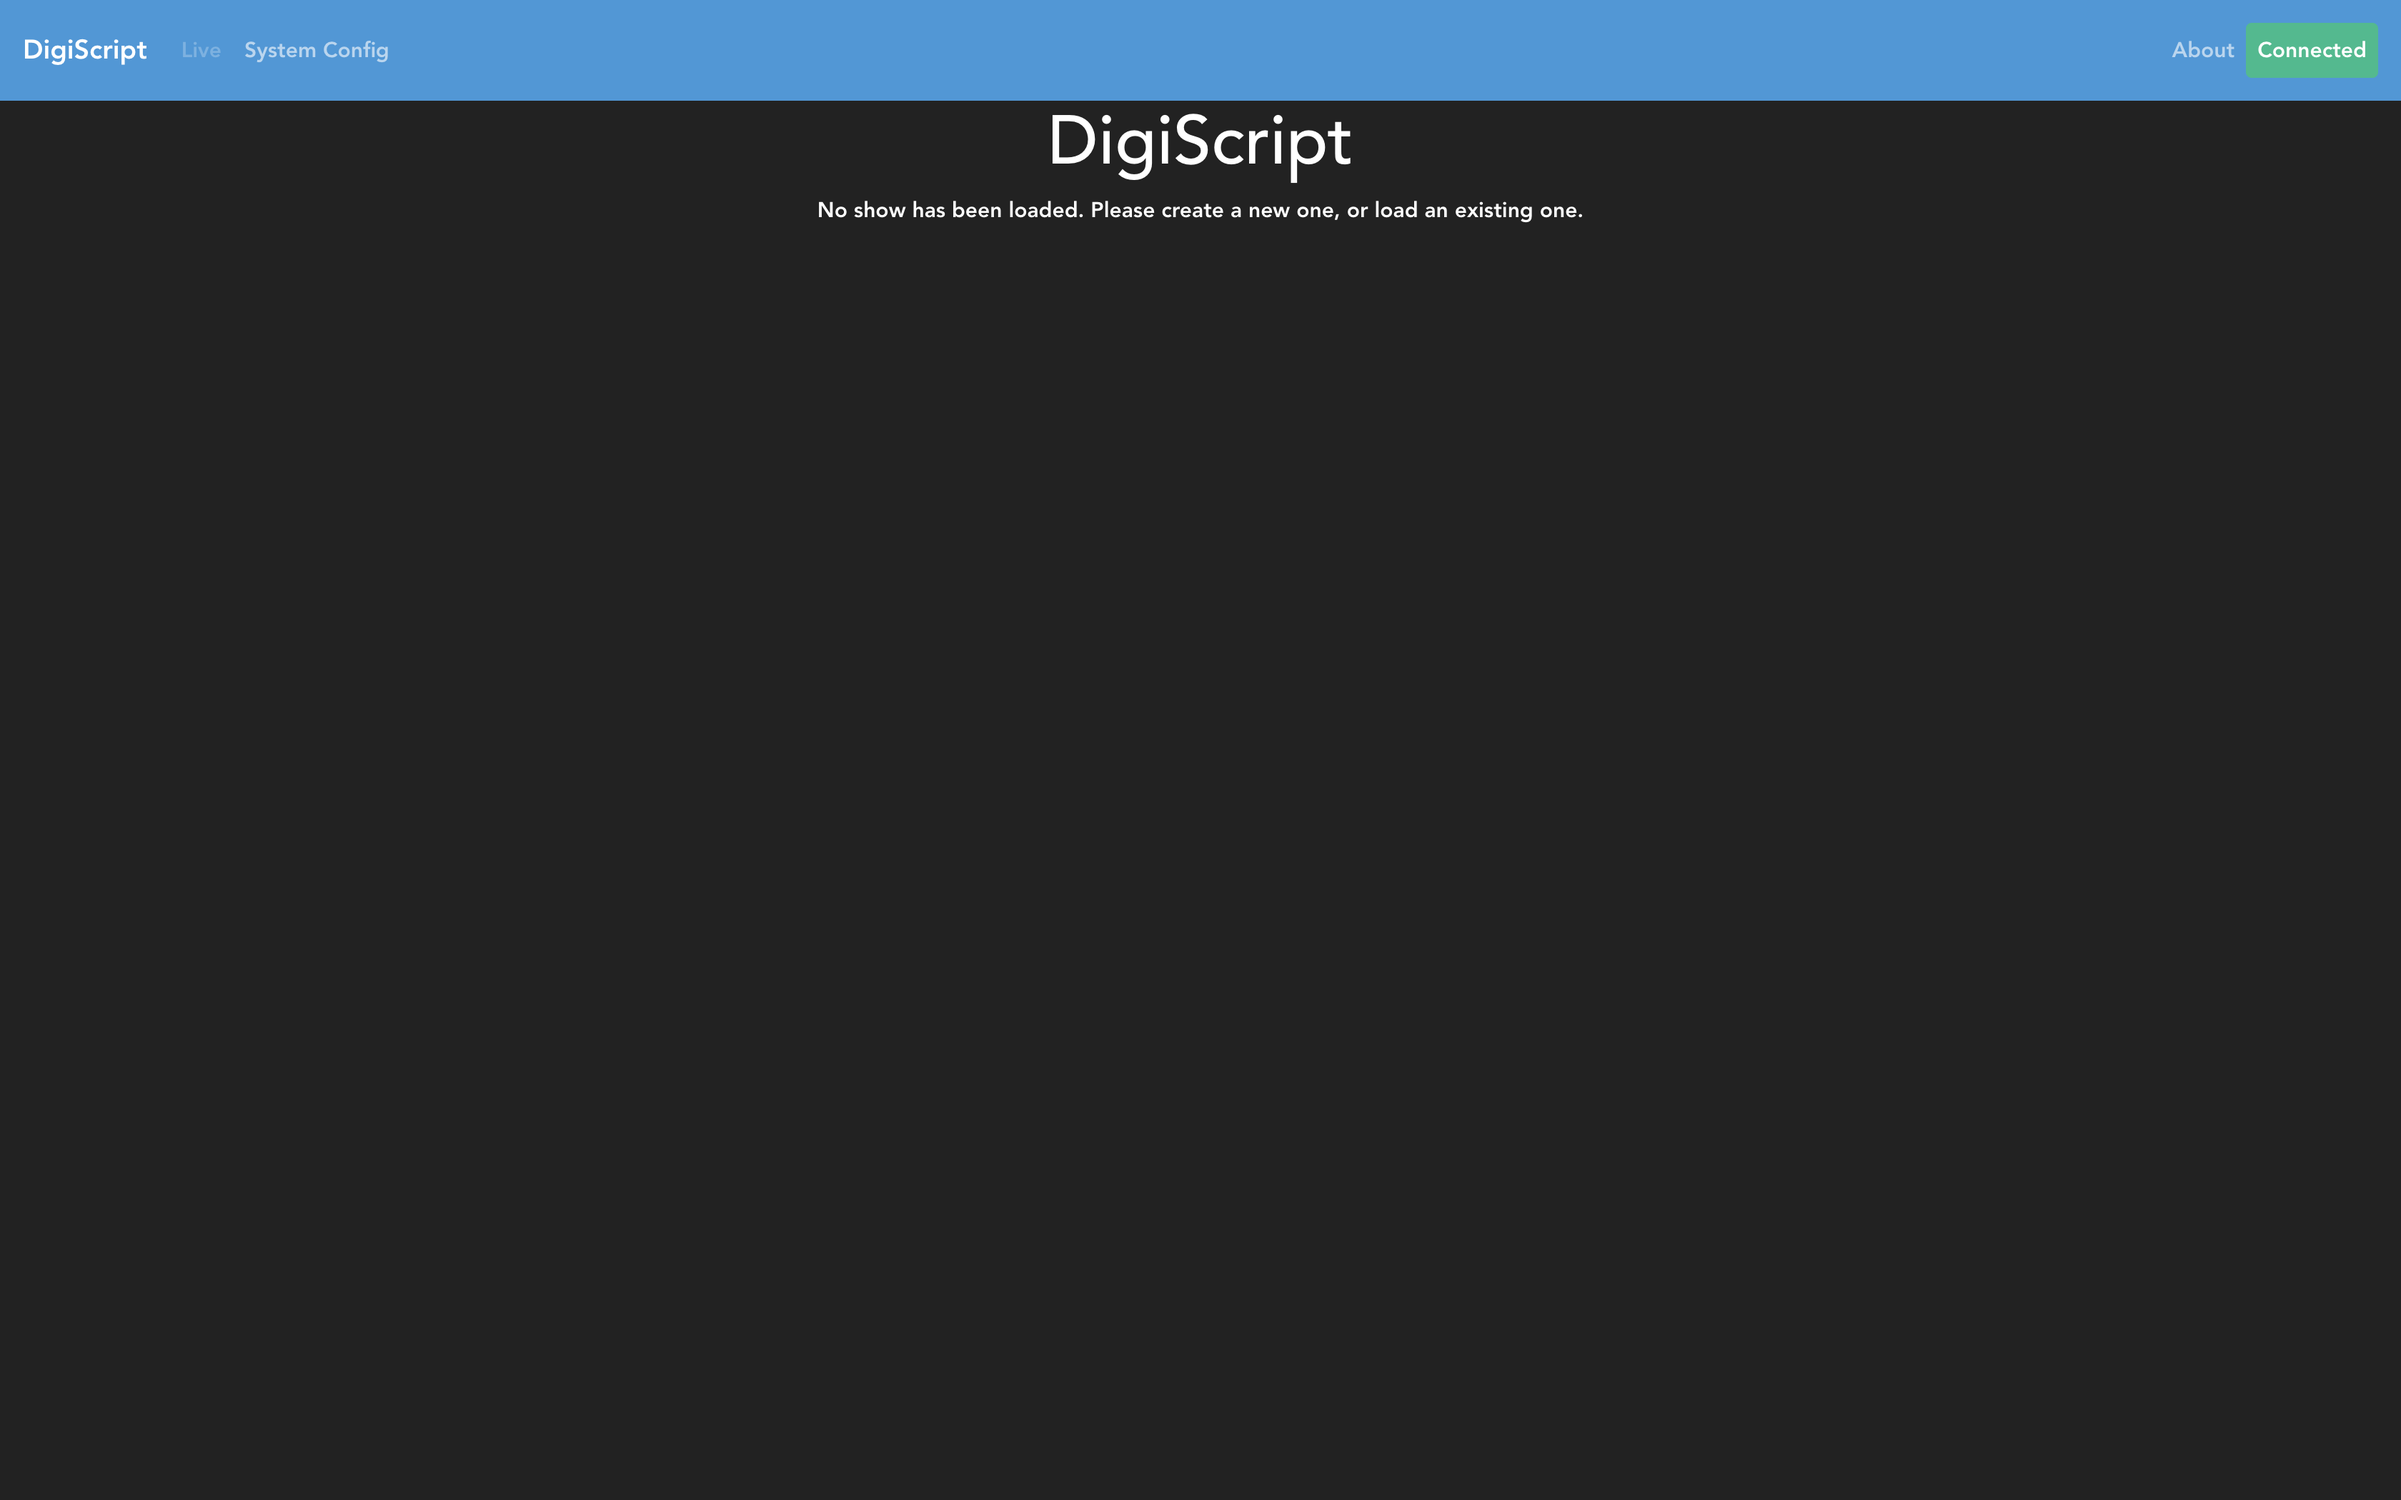
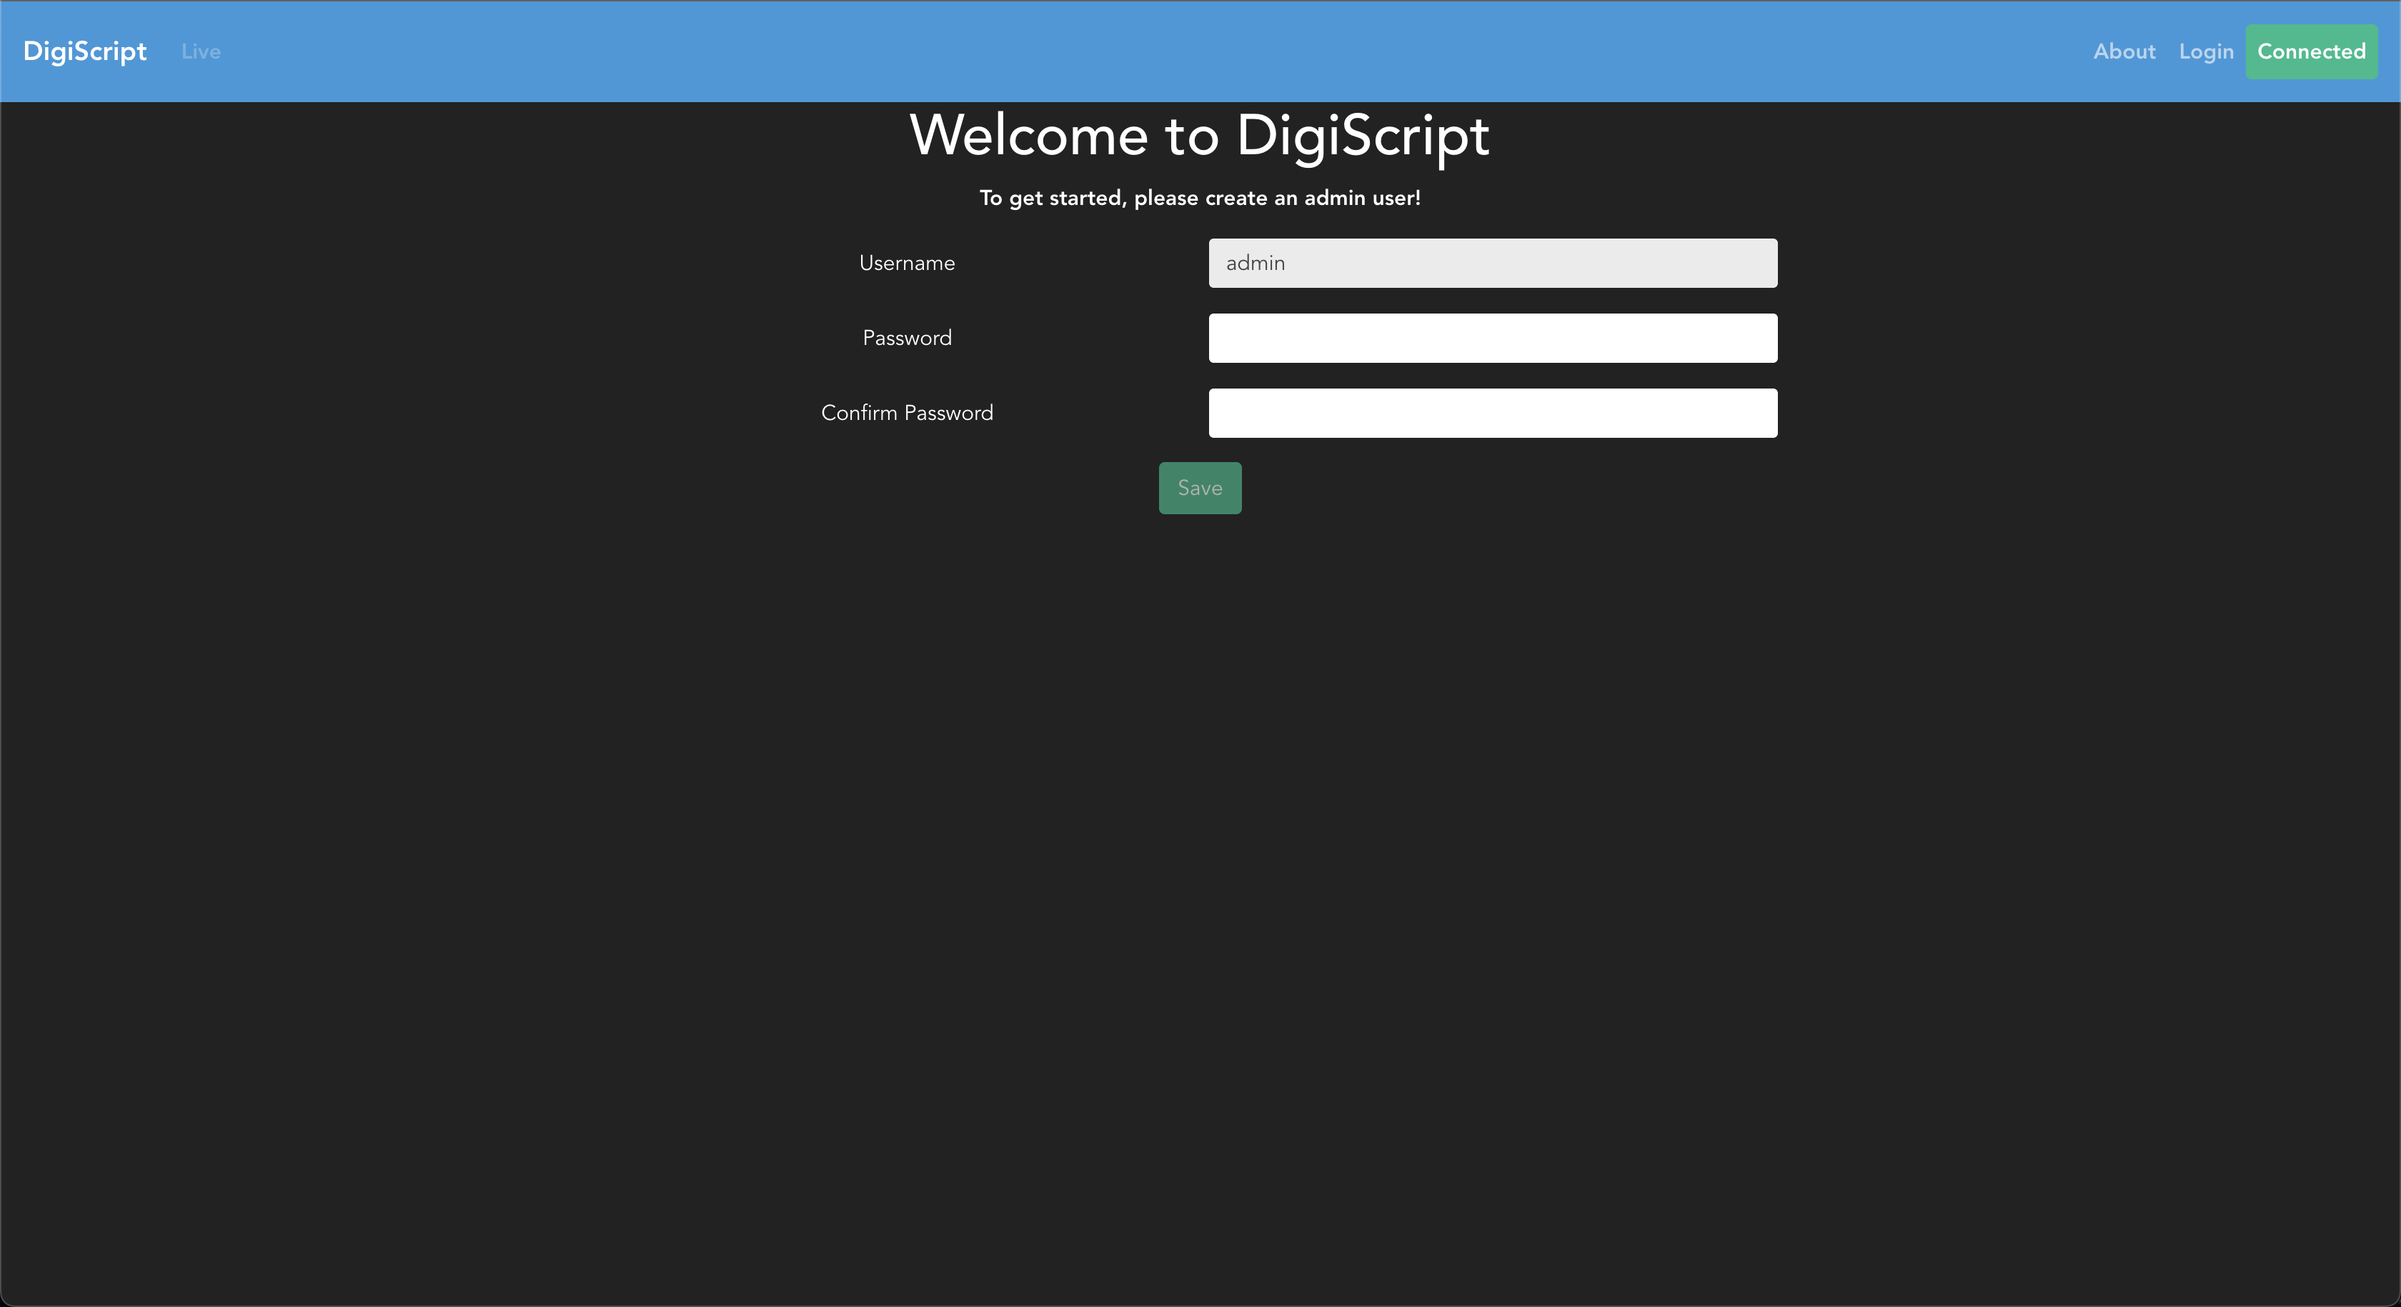
Create documentation for Users and RBAC

Changed region(s): [[0.0, 0.0, 1.0, 0.4049], [0.0, 0.9967, 1.0, 1.0], [0.375, 0.3115, 0.4062, 0.3426]]

diff --git a/docs/pages/user_config.md b/docs/pages/user_config.md
@@ -1,0 +1,43 @@
+## Users and RBAC
+
+DigiScript allows you to create users per-show, and configure Role Based Authorisation (RBAC) for 
+them. This is an optional feature and does not have to be used, the `admin` user created during
+application first launch has the permissions to perform all actions, and can be used solely to 
+administer the DigiScript application. However, adding users will allow others to perform actions
+such as configuring the show and script, or adding new cues.
+
+To configure users, a show must first be loaded. Once this has been done, as the `admin` user you can 
+navigate to the **System Config** section page from the top navigation bar, and then to the **Users**
+tab within this page. This will show you a table of all users for the current show:
+
+![](../images/config_user/users_overview.png)
+
+To add a new user, simply click on the `New User` button and enter the details into the form
+presented to you:
+
+![](../images/config_user/create_user.png)
+
+**Note: the username entered must be unique to the entire system, not per show.**
+
+Once users have been created, their roles can be changed by clicking on the **RBAC** button next
+to each user's details. This will bring up the option to configure roles per object per resource,
+for example configuring the roles for a particular Cue type.
+
+![](../images/config_user/user_rbac.png)
+
+### RBAC Roles and Mappings
+
+The current RBAC mappings are as follows:
+
+* Shows:
+  * Read: Unused
+  * Write: Create, edit, delete show resources such as acts, scenes, characters etc
+  * Execute: Start and stop show sessions (See [Live Show](./live_show.md))
+* Cuetypes:
+  * Read: Unused
+  * Write: Create, edit and delete cues of a particular type
+  * Execute: Unused
+* Script:
+  * Read: Unused
+  * Write: Make changes to the script
+  * Execute: Unused

diff --git a/docs/pages/getting_started.md b/docs/pages/getting_started.md
@@ -4,8 +4,21 @@ When DigiScript is first loaded, you will see a page similar to the following:
 
 ![](../images/getting_started/first_look.png)
 
-From here, the first thing to do is set up a new show by going to the **System Config** navigation
-option. This will give you a page that looks like this:
+As you can see, before being able to continue you will first need to create an Administrator user.
+To do this, enter a password and press `save`, and a new user with the username `admin` will be 
+created.
+
+From here, you will need to log in with the new `admin` user that has just been created. Clicking 
+on the `login` button in the top right of the navigation pane will allow you to enter the `admin`
+username and password from the previous step:
+
+![](../images/getting_started/user_login.png)
+
+For more information on how to create users for a show, see [Users and RBAC](./user_config.md).
+
+Once the admin user has been created and you have logged in, the first thing to do is set up a new 
+show by going to the **System Config** navigation option. This will give you a page that looks like 
+this:
 
 ![](../images/getting_started/config_system.png)
 
